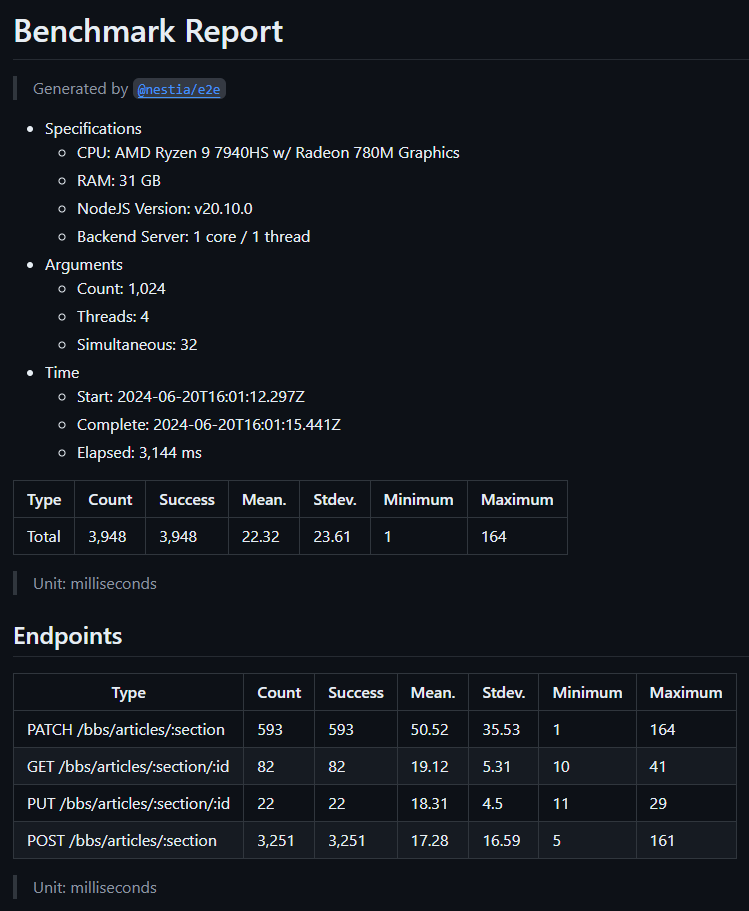
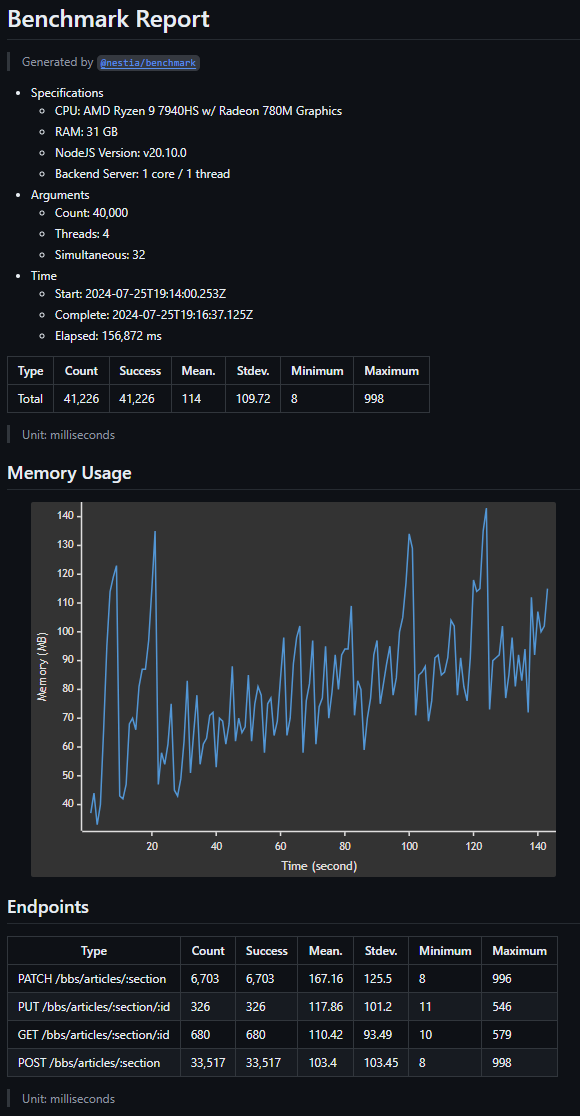
Add memory consumption graph in benchmark program.

diff --git a/packages/benchmark/src/DynamicBenchmarker.ts b/packages/benchmark/src/DynamicBenchmarker.ts
@@ -1,10 +1,10 @@
 import { IConnection } from "@nestia/fetcher";
 import fs from "fs";
-import os from "os";
 import { Driver, WorkerConnector, WorkerServer } from "tgrid";
-import { HashMap, hash } from "tstl";
+import { HashMap, hash, sleep_for } from "tstl";
 
 import { IBenchmarkEvent } from "./IBenchmarkEvent";
+import { DynamicBenchmarWriter } from "./internal/DynamicBenchmarkReporter";
 import { IBenchmarkMaster } from "./internal/IBenchmarkMaster";
 import { IBenchmarkServant } from "./internal/IBenchmarkServant";
 
@@ -90,6 +90,17 @@ export namespace DynamicBenchmarker {
     progress?: (complete: number) => void;
 
     /**
+     * Get memory usage.
+     *
+     * Get the memory usage of the master program.
+     *
+     * Specify this property only when your backend server is running on
+     * a different process, so that need to measure the memory usage of
+     * the backend server from other process.
+     */
+    memory?: () => Promise<NodeJS.MemoryUsage>;
+
+    /**
      * Standard I/O option.
      *
      * The standard I/O option for the servant programs.
@@ -147,6 +158,7 @@ export namespace DynamicBenchmarker {
     completed_at: string;
     statistics: IReport.IStatistics;
     endpoints: Array<IReport.IEndpoint & IReport.IStatistics>;
+    memories: IReport.IMemory[];
   }
   export namespace IReport {
     export interface IEndpoint {
@@ -160,6 +172,10 @@ export namespace DynamicBenchmarker {
       stdev: number | null;
       minimum: number | null;
       maximum: number | null;
+    }
+    export interface IMemory {
+      time: string;
+      usage: NodeJS.MemoryUsage;
     }
   }
 
@@ -202,7 +218,22 @@ export namespace DynamicBenchmarker {
         return connector;
       }),
     );
+
     const started_at: Date = new Date();
+    const memories: IReport.IMemory[] = [];
+    let completed_at: Date | null = null;
+
+    (async () => {
+      const getter = props.memory ?? (async () => process.memoryUsage());
+      while (completed_at === null) {
+        await sleep_for(1_000);
+        memories.push({
+          usage: await getter(),
+          time: new Date().toISOString(),
+        });
+      }
+    })().catch(() => {});
+
     const events: IBenchmarkEvent[] = (
       await Promise.all(
         servants.map((connector) =>
@@ -213,7 +244,8 @@ export namespace DynamicBenchmarker {
         ),
       )
     ).flat();
-    const completed_at: Date = new Date();
+
+    completed_at = new Date();
     await Promise.all(servants.map((connector) => connector.close()));
     if (props.progress) props.progress(props.count);
 
@@ -243,6 +275,7 @@ export namespace DynamicBenchmarker {
       })),
       started_at: started_at.toISOString(),
       completed_at: completed_at.toISOString(),
+      memories,
     };
   };
 
@@ -274,85 +307,8 @@ export namespace DynamicBenchmarker {
    * @param report Benchmark report
    * @returns Markdown content
    */
-  export const markdown = (report: DynamicBenchmarker.IReport): string => {
-    const format = (value: number | null) =>
-      value === null ? "N/A" : (Math.floor(value * 100) / 100).toLocaleString();
-    const writeHead = () =>
-      [
-        "Type",
-        "Count",
-        "Success",
-        "Mean.",
-        "Stdev.",
-        "Minimum",
-        "Maximum",
-      ].join(" | ") +
-      "\n" +
-      new Array(7).fill("----").join("|");
-    const writeRow = (
-      title: string,
-      s: DynamicBenchmarker.IReport.IStatistics,
-    ) =>
-      [
-        title,
-        s.count.toLocaleString(),
-        s.success.toLocaleString(),
-        format(s.mean),
-        format(s.stdev),
-        format(s.minimum),
-        format(s.maximum),
-      ].join(" | ");
-    return [
-      `# Benchmark Report`,
-      "> Generated by [`@nestia/benchmark`](https://github.com/samchon/nestia)",
-      ``,
-      `  - Specifications`,
-      `    - CPU: ${os.cpus()[0].model}`,
-      `    - RAM: ${Math.floor(os.totalmem() / 1024 / 1024 / 1024).toLocaleString()} GB`,
-      `    - NodeJS Version: ${process.version}`,
-      `    - Backend Server: 1 core / 1 thread`,
-      `  - Arguments`,
-      `    - Count: ${report.count.toLocaleString()}`,
-      `    - Threads: ${report.threads.toLocaleString()}`,
-      `    - Simultaneous: ${report.simultaneous.toLocaleString()}`,
-      `  - Time`,
-      `    - Start: ${report.started_at}`,
-      `    - Complete: ${report.completed_at}`,
-      `    - Elapsed: ${(new Date(report.completed_at).getTime() - new Date(report.started_at).getTime()).toLocaleString()} ms`,
-      ``,
-      writeHead(),
-      writeRow("Total", report.statistics),
-      "",
-      "> Unit: milliseconds",
-      "",
-      "## Endpoints",
-      writeHead(),
-      ...report.endpoints
-        .slice()
-        .sort((a, b) => (b.mean ?? 0) - (a.mean ?? 0))
-        .map((endpoint) =>
-          writeRow(`${endpoint.method} ${endpoint.path}`, endpoint),
-        ),
-      "",
-      "> Unit: milliseconds",
-      "",
-      "## Failures",
-      "Method | Path | Count | Failures",
-      "-------|------|-------|----------",
-      ...report.endpoints
-        .filter((e) => e.success !== e.count)
-        .slice()
-        .sort((a, b) => b.count - a.count)
-        .map((e) =>
-          [
-            e.method,
-            e.path,
-            e.count.toLocaleString(),
-            (e.count - e.success).toLocaleString(),
-          ].join(" | "),
-        ),
-    ].join("\n");
-  };
+  export const markdown = (report: DynamicBenchmarker.IReport): string =>
+    DynamicBenchmarWriter.markdown(report);
 
   const execute =
     <Parameters extends any[]>(ctx: {

diff --git a/packages/benchmark/src/internal/DynamicBenchmarkReporter.ts b/packages/benchmark/src/internal/DynamicBenchmarkReporter.ts
@@ -1,0 +1,93 @@
+import os from "os";
+
+import { DynamicBenchmarker } from "../DynamicBenchmarker";
+
+export namespace DynamicBenchmarWriter {
+  export const markdown = (report: DynamicBenchmarker.IReport): string => {
+    const format = (value: number | null) =>
+      value === null ? "N/A" : (Math.floor(value * 100) / 100).toLocaleString();
+    const writeHead = () =>
+      [
+        "Type",
+        "Count",
+        "Success",
+        "Mean.",
+        "Stdev.",
+        "Minimum",
+        "Maximum",
+      ].join(" | ") +
+      "\n" +
+      new Array(7).fill("----").join("|");
+    const writeRow = (
+      title: string,
+      s: DynamicBenchmarker.IReport.IStatistics,
+    ) =>
+      [
+        title,
+        s.count.toLocaleString(),
+        s.success.toLocaleString(),
+        format(s.mean),
+        format(s.stdev),
+        format(s.minimum),
+        format(s.maximum),
+      ].join(" | ");
+    return [
+      `# Benchmark Report`,
+      "> Generated by [`@nestia/benchmark`](https://github.com/samchon/nestia)",
+      ``,
+      `  - Specifications`,
+      `    - CPU: ${os.cpus()[0].model}`,
+      `    - RAM: ${Math.floor(os.totalmem() / 1024 / 1024 / 1024).toLocaleString()} GB`,
+      `    - NodeJS Version: ${process.version}`,
+      `    - Backend Server: 1 core / 1 thread`,
+      `  - Arguments`,
+      `    - Count: ${report.count.toLocaleString()}`,
+      `    - Threads: ${report.threads.toLocaleString()}`,
+      `    - Simultaneous: ${report.simultaneous.toLocaleString()}`,
+      `  - Time`,
+      `    - Start: ${report.started_at}`,
+      `    - Complete: ${report.completed_at}`,
+      `    - Elapsed: ${(new Date(report.completed_at).getTime() - new Date(report.started_at).getTime()).toLocaleString()} ms`,
+      ``,
+      writeHead(),
+      writeRow("Total", report.statistics),
+      "",
+      "> Unit: milliseconds",
+      "",
+      "## Memory Usage",
+      "```mermaid",
+      "xychart-beta",
+      `  x-axis "Time (second)"`,
+      `  y-axis "Memory (MB)"`,
+      `  line [${report.memories.map((m) => Math.floor((m.usage.heapUsed + m.usage.external) / 1024 ** 2)).join(", ")}]`,
+      "```",
+      "",
+      "## Endpoints",
+      writeHead(),
+      ...report.endpoints
+        .slice()
+        .sort((a, b) => (b.mean ?? 0) - (a.mean ?? 0))
+        .map((endpoint) =>
+          writeRow(`${endpoint.method} ${endpoint.path}`, endpoint),
+        ),
+      "",
+      "> Unit: milliseconds",
+      "",
+      "## Failures",
+      "Method | Path | Count | Failures",
+      "-------|------|-------|----------",
+      ...report.endpoints
+        .filter((e) => e.success !== e.count)
+        .slice()
+        .sort((a, b) => b.count - a.count)
+        .map((e) =>
+          [
+            e.method,
+            e.path,
+            e.count.toLocaleString(),
+            (e.count - e.success).toLocaleString(),
+          ].join(" | "),
+        ),
+    ].join("\n");
+  };
+}

diff --git a/packages/benchmark/test/index.ts b/packages/benchmark/test/index.ts
@@ -11,7 +11,7 @@ const main = async (): Promise<void> => {
 
   const report: DynamicBenchmarker.IReport = await DynamicBenchmarker.master({
     servant: `${__dirname}/servant.js`,
-    count: 1024,
+    count: 40_000,
     threads: 4,
     simultaneous: 32,
     stdio: "ignore",
